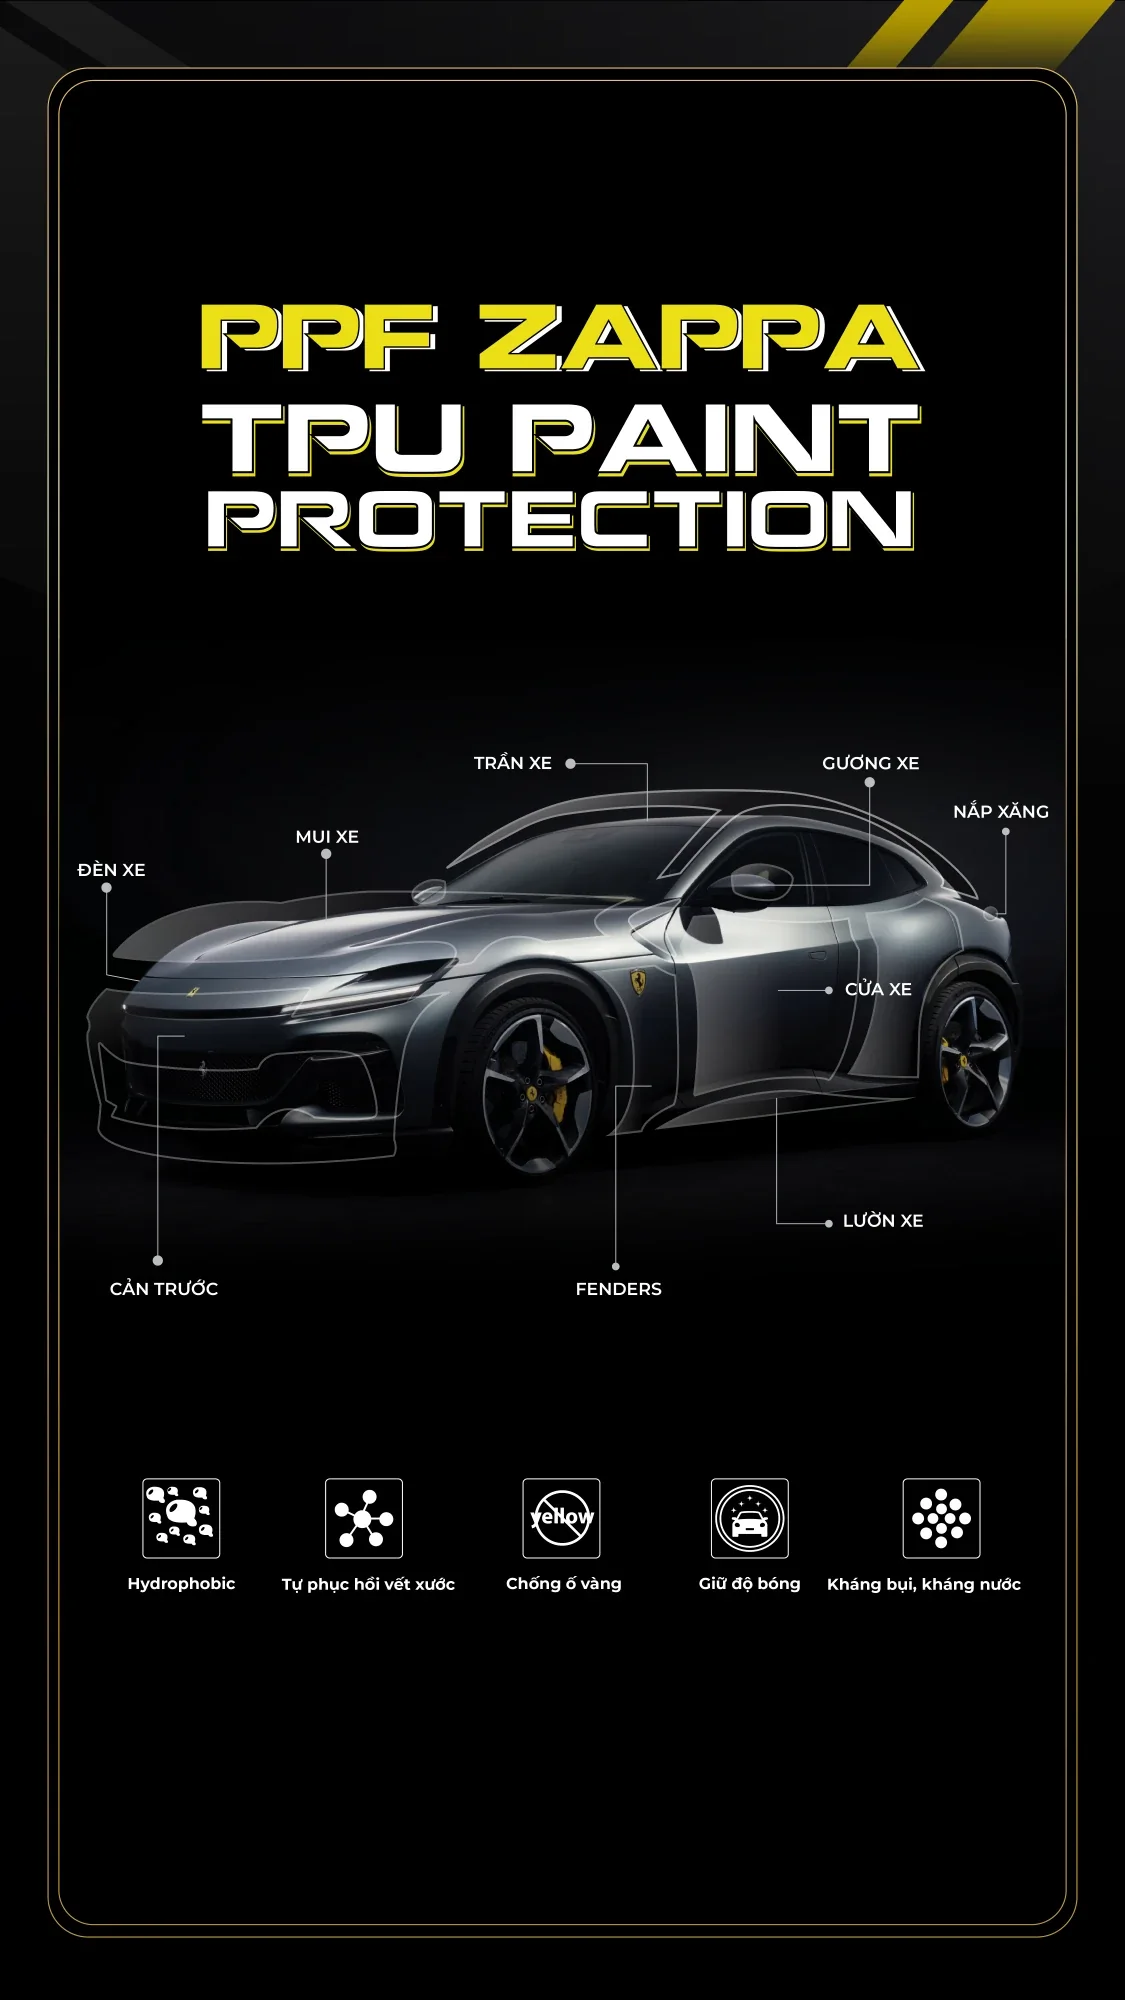
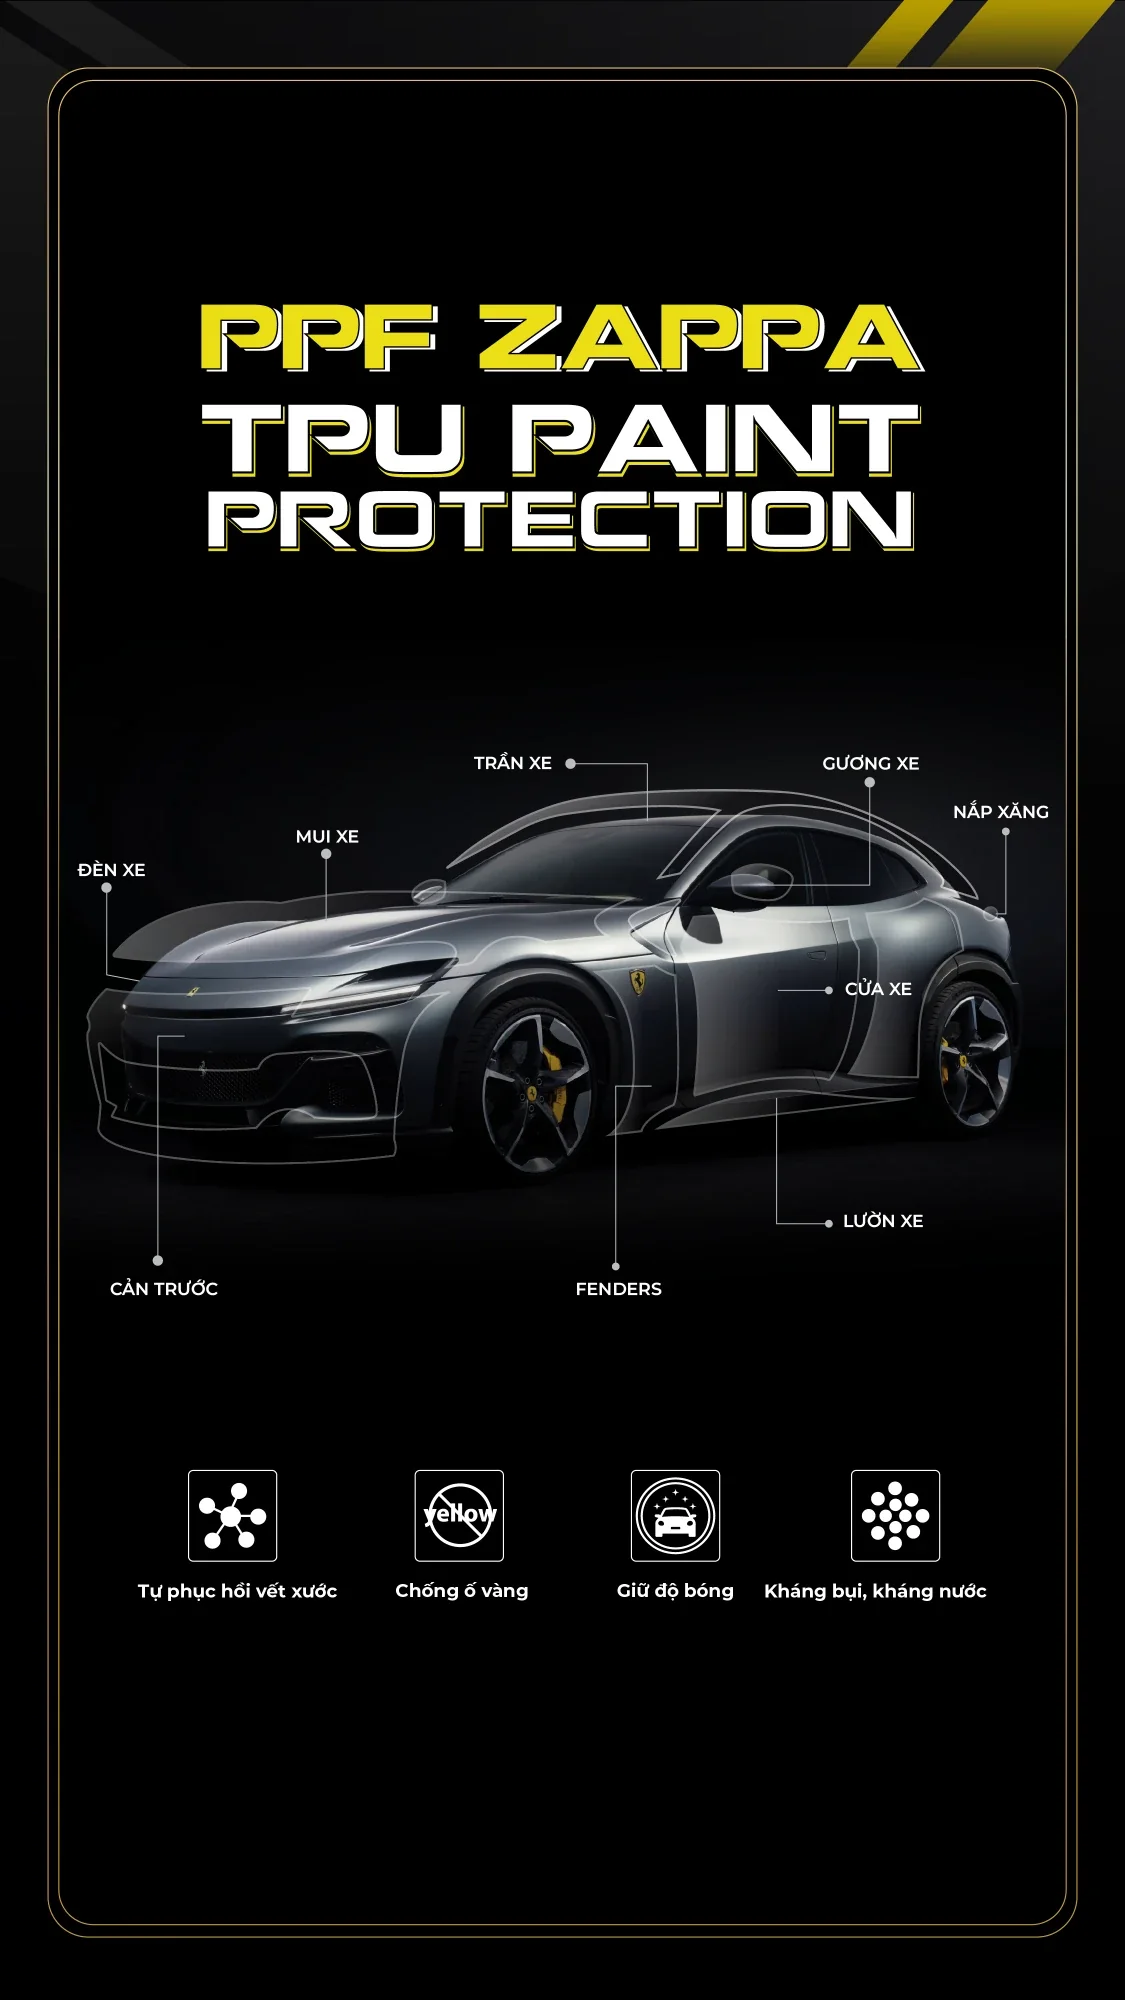
Trang PPF Zappa TPU: thay poster moi (4 tinh nang, bo Hydrophobic)

diff --git a/web/index.html b/web/index.html
@@ -443,7 +443,7 @@ html.ready .route{opacity:1;transform:translate(-50%,0);pointer-events:auto}
 
   <section class="board" id="tpu" data-stop="PPF Zappa TPU" aria-label="PPF Zappa TPU Paint Protection">
     <div class="scroller" tabindex="-1"><div class="inner">
-      <img class="poster" src="assets/poster-tpu.webp" width="1125" height="2000" alt="PPF Zappa TPU Paint Protection: các vị trí dán trên xe (đèn, mui, trần, gương, nắp xăng, cửa, lườn, fenders, cản trước) và 5 tính năng: hydrophobic, tự phục hồi vết xước, chống ố vàng, giữ độ bóng, kháng bụi kháng nước.">
+      <img class="poster" src="assets/poster-tpu.webp" width="1125" height="2000" alt="PPF Zappa TPU Paint Protection: các vị trí dán trên xe (đèn, mui, trần, gương, nắp xăng, cửa, lườn, fenders, cản trước) và 4 tính năng: tự phục hồi vết xước, chống ố vàng, giữ độ bóng, kháng bụi kháng nước.">
     </div></div>
   </section>
 
